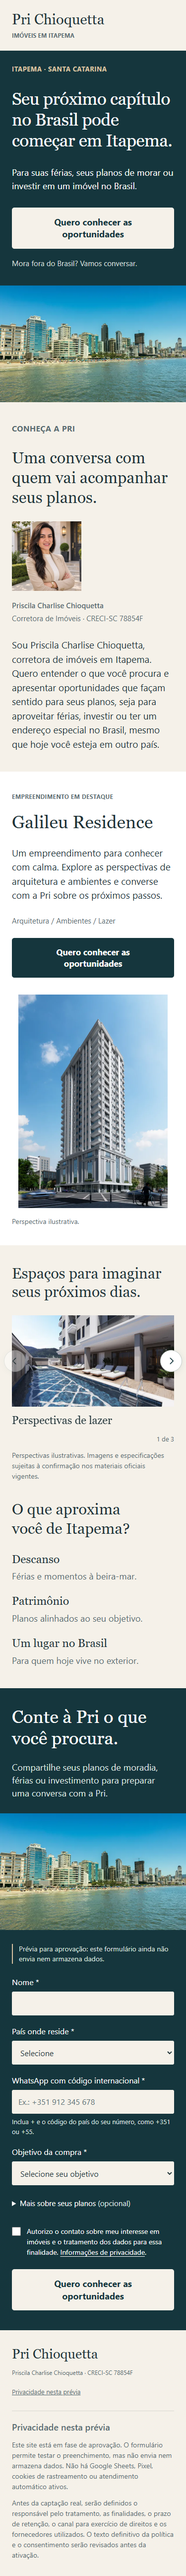
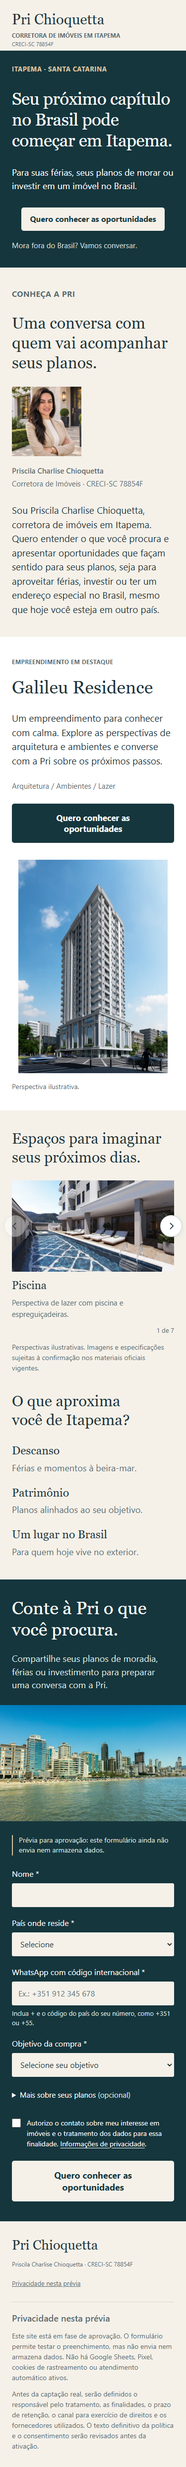
feat: configure seven-slide gallery and approved header and mobile refinements

diff --git a/config.js b/config.js
@@ -1,6 +1,6 @@
 // Edite o conteúdo aqui e execute `npm run build`. Sem dependências externas.
 export default {
-  brand: { name: 'Pri Chioquetta', subtitle: 'Imóveis em Itapema', tagline: 'Atendimento pessoal, onde você estiver.' },
+  brand: { name: 'Pri Chioquetta', subtitle: 'Corretora de Imóveis em Itapema', tagline: 'Atendimento pessoal, onde você estiver.' },
   seo: {
     title: 'Imóveis em Itapema | Pri Chioquetta',
     description: 'Conheça o Galileu Residence e converse com Priscila Charlise Chioquetta sobre férias, moradia e seus planos de ter um imóvel em Itapema, Santa Catarina.',
@@ -55,11 +55,16 @@ export default {
   gallery: {
     title: 'Espaços para imaginar seus próximos dias.',
     disclaimer: 'Perspectivas ilustrativas. Imagens e especificações sujeitas à confirmação nos materiais oficiais vigentes.',
-    // Manter apenas a seleção editorial já aprovada. Nenhum novo ambiente foi acrescentado.
+    // Adicione, remova ou reordene os objetos abaixo e execute npm run build.
+    // Os arquivos são os derivados reais já existentes no acervo otimizado.
     items: [
-      { caption: 'Perspectivas de lazer', image: { name: 'piscina-a-02', widths: [640, 1280, 1920], width: 5000, height: 2813, alt: 'Perspectiva ilustrativa de piscina e espreguiçadeiras.' } },
-      { caption: 'Ambientes para morar', image: { name: 'living-a-01', widths: [640, 1280, 1920], width: 5000, height: 2813, alt: 'Perspectiva ilustrativa de living com sofá e painel de televisão.' } },
-      { caption: 'Momentos de descanso', image: { name: 'sacada-02-a-01', widths: [640, 1280, 1920], width: 5000, height: 2813, alt: 'Perspectiva ilustrativa de sacada com mesa, cadeiras e paisagem urbana.' } }
+      { title: 'Piscina', caption: 'Perspectiva de lazer com piscina e espreguiçadeiras.', image: { name: 'piscina-a-02', widths: [640, 1280, 1920], width: 5000, height: 2813, alt: 'Perspectiva ilustrativa de piscina e espreguiçadeiras.' } },
+      { title: 'Living', caption: 'Perspectiva do ambiente de estar e sua decoração.', image: { name: 'living-a-01', widths: [640, 1280, 1920], width: 5000, height: 2813, alt: 'Perspectiva ilustrativa de living com sofá e painel de televisão.' } },
+      { title: 'Sacada', caption: 'Perspectiva da sacada com mesa e cadeiras.', image: { name: 'sacada-02-a-01', widths: [640, 1280, 1920], width: 5000, height: 2813, alt: 'Perspectiva ilustrativa de sacada com mesa, cadeiras e paisagem urbana.' } },
+      { title: 'Suíte', caption: 'Perspectiva do dormitório e sua ambientação.', image: { name: 'suite-a-01', widths: [640, 1280, 1920], width: 5000, height: 2813, alt: 'Perspectiva ilustrativa de suíte com cama e cabeceira.' } },
+      { title: 'Salão de festas', caption: 'Perspectiva do espaço de convivência e celebrações.', image: { name: 'salao-de-festas-a-02', widths: [640, 1280, 1920], width: 5000, height: 2813, alt: 'Perspectiva ilustrativa de salão de festas com mesas e área de apoio.' } },
+      { title: 'Sala de jogos', caption: 'Perspectiva do ambiente de jogos e convivência.', image: { name: 'sala-de-jogos-a-02', widths: [640, 1280, 1920], width: 5000, height: 2813, alt: 'Perspectiva ilustrativa de sala de jogos com mesa e poltronas.' } },
+      { title: 'Brinquedoteca', caption: 'Perspectiva do espaço infantil e seus elementos lúdicos.', image: { name: 'brinquedoteca-a-02', widths: [640, 1280, 1920], width: 5000, height: 2813, alt: 'Perspectiva ilustrativa de brinquedoteca com cabana e brinquedos.' } }
     ]
   },
   regionTitle: 'O que aproxima você de Itapema?',

diff --git a/styles/main.css b/styles/main.css
@@ -9,8 +9,20 @@
 @media(min-width:1101px){.hero-title-line{display:block}.hero-copy{padding-bottom:13px}}
 .sr-only{position:absolute;width:1px;height:1px;padding:0;margin:-1px;overflow:hidden;clip:rect(0,0,0,0);white-space:nowrap;border:0}
 .contact-panorama{display:none}
+.brand{position:relative}
+.brand-creci{display:block;position:absolute;top:100%;left:0;margin-top:2px;font-family:var(--body);font-size:11px;font-weight:400;line-height:1.3;color:var(--muted);white-space:nowrap}
+.gallery-card figcaption h3{font-size:24px;line-height:1.3}
+.gallery-card figcaption p{font-family:var(--body);font-size:16px;line-height:1.5;color:var(--muted);margin-top:8px}
+.carousel-arrow{top:0;margin-top:calc((100% - 24px)*60/410 - 22px)}
+@media(max-width:767px){
+  .gallery-card figcaption h3{font-size:22px}
+  .gallery-card figcaption p{font-size:15px}
+  .carousel-arrow{top:0;margin-top:calc(100%*107.5/382 - 22px)}
+}
 /* Foto dentro da seção de contato, imediatamente antes dos campos, só no mobile. */
 @media(max-width:767px){
   .contact-panorama{display:block;margin-inline:-24px}
   .contact-panorama img{width:100%;height:auto;aspect-ratio:1.6;object-fit:cover;object-position:var(--image-position,50% 55%)}
+  .hero-image{display:none}
+  .hero .button{align-self:center;width:fit-content;max-width:calc(100% - 16px);min-height:46px;padding:11px 16px;font-size:16px;line-height:1.4}
 }

diff --git a/templates/index.html b/templates/index.html
@@ -27,7 +27,7 @@
   <a class="skip-link" href="#conteudo">Ir para o conteúdo</a>
   <header class="site-header">
     <a class="brand" href="#inicio" aria-label="{{brandName}} — início">
-      <span class="brand-name">{{brandName}}</span><span class="brand-subtitle">{{brandSubtitle}}</span>
+      <span class="brand-name">{{brandName}}</span><span class="brand-subtitle">{{brandSubtitle}}</span><span class="brand-creci">{{brokerCreci}}</span>
     </a>
     <p class="header-note">{{brandTagline}}</p>
   </header>

diff --git a/tools/relatar-qa.py b/tools/relatar-qa.py
@@ -4,7 +4,7 @@ p=pathlib.Path(__file__).resolve().parents[1];r=json.loads((p/'validacao/resulta
 lines=['# Validação da primeira versão funcional','', '13/11/2026 · Microsoft Edge / Chromium headless, em Windows.','', '## Resultado','', '| Largura | Carrossel visível | Toque | Overflow da página | Subrecursos iniciais |','|---|---|---|---|---|']
 for v in r['viewports']:
  lines.append(f"| {v['width']} px | {v['carouselVisible']} imagem(ns) | {v['touch']} | Não | {v['initialResourceBytes']/1000:.1f} kB |")
-lines += ['', 'Os valores de recursos são `encodedBodySize` dos subrecursos observados na primeira tela, antes do percurso pela página; não incluem o HTML (16,5 kB), cabeçalhos ou efeitos de compressão em produção. Incluem possíveis antecipações de imagens lazy do navegador. Não são nota Lighthouse nem medição em rede móvel.', '', '## Verificações aprovadas', '', '- Seis larguras sem overflow horizontal da página, inclusive depois das interações.', '- Cabeçalho mobile restaurado ao estilo inicial; foto WebP dentro da seção de contato, entre a chamada e os campos. Tablet e desktop preservados.', '- Identificação completa, profissão e CRECI presentes; retrato profissional no lugar da captura de Instagram.', '- Três imagens da seleção anterior; duas por tela a partir de 768 px e uma abaixo desse limite.', '- Setas, estados inicial/final e navegação por teclado (esquerda/direita, Home/End).', '- Gesto nativo de deslize emulado por eventos de toque CDP nas três larguras mobile.', '- Todas as imagens da página decodificadas, sem recursos com erro HTTP ou erros JavaScript.', '- Validação de telefone internacional, campos obrigatórios e consentimento desmarcado. Campos de qualificação opcionais disponíveis em bloco expansível.', '- Mensagem de validação explicita que não houve envio ou armazenamento; zero requisições POST durante os testes.', '- Zero requisições externas, cookies, localStorage ou sessionStorage nesta versão.', '- Leitura das UTMs permitidas na página atual, sem persistência ou transmissão.', '- Um H1, title, description, metadados Open Graph, imagem OG 1200 × 630, idioma pt-BR, robots noindex e dimensões das imagens.', '- Conteúdo em HTML acessível sem JavaScript, com envio desabilitado.', '- Preferência por movimento reduzido respeitada.', '- Function reservada testada como módulo: GET 405, POST 503 e `ok: false`.', '', '## Capturas', '', 'Os arquivos em `validacao/pagina-LARGURA.png` são capturas completas do navegador, anteriores ao preenchimento de dados sintéticos. `hero-LARGURA.png` registra a primeira tela e `carrossel-LARGURA.png` registra a galeria. As seis versões foram revisadas visualmente, com atenção a recortes, legibilidade e alinhamento.', '', '## Limites e pendências', '']
+lines += ['', 'Os valores de recursos são `encodedBodySize` dos subrecursos observados na primeira tela, antes do percurso pela página; não incluem o HTML (16,5 kB), cabeçalhos ou efeitos de compressão em produção. Incluem possíveis antecipações de imagens lazy do navegador. Não são nota Lighthouse nem medição em rede móvel.', '', '## Verificações aprovadas', '', '- Seis larguras sem overflow horizontal da página, inclusive depois das interações.', '- Cabeçalho profissional com subtítulo e CRECI; Hero mobile preservado com CTA compacto e foto WebP apenas dentro da seção de contato, entre a chamada e os campos. Hero desktop preservado.', '- Identificação completa, profissão e CRECI presentes; retrato profissional no lugar da captura de Instagram.', '- Sete ambientes na ordem solicitada, com títulos e legendas; duas imagens por tela a partir de 768 px e uma abaixo desse limite.', '- Setas, estados inicial/final e navegação por teclado (esquerda/direita, Home/End).', '- Gesto nativo de deslize emulado por eventos de toque CDP nas três larguras mobile.', '- Todas as imagens da página decodificadas, sem recursos com erro HTTP ou erros JavaScript.', '- Validação de telefone internacional, campos obrigatórios e consentimento desmarcado. Campos de qualificação opcionais disponíveis em bloco expansível.', '- Mensagem de validação explicita que não houve envio ou armazenamento; zero requisições POST durante os testes.', '- Zero requisições externas, cookies, localStorage ou sessionStorage nesta versão.', '- Leitura das UTMs permitidas na página atual, sem persistência ou transmissão.', '- Um H1, title, description, metadados Open Graph, imagem OG 1200 × 630, idioma pt-BR, robots noindex e dimensões das imagens.', '- Conteúdo em HTML acessível sem JavaScript, com envio desabilitado.', '- Preferência por movimento reduzido respeitada.', '- Function reservada testada como módulo: GET 405, POST 503 e `ok: false`.', '', '## Capturas', '', 'Os arquivos em `validacao/pagina-LARGURA.png` são capturas completas do navegador, anteriores ao preenchimento de dados sintéticos. `hero-LARGURA.png` registra a primeira tela e `carrossel-LARGURA.png` registra a galeria. As seis versões foram revisadas visualmente, com atenção a recortes, legibilidade e alinhamento.', '', '## Limites e pendências', '']
 lines += ['- '+x for x in r['limitations']]
 lines += ['- A autorização comercial do retrato continua pendente; a exibição atual é de revisão local.', '- Associação dos ambientes e direitos de uso precisam de confirmação antes da versão pública.', '- Integração real, credenciais, banco, privacidade final, Cloudflare e domínio continuam pendentes.', '- Não foi feita auditoria WCAG completa; foram verificados rótulos, foco, teclado, textos alternativos e movimento reduzido.', '- Cabeçalhos de segurança do Pages foram conferidos no código; sua aplicação no Cloudflare deve ser validada na primeira prévia remota autorizada.', '', '## Reproduzir o QA', '', 'O site não depende de Playwright. Para repetir somente os testes de desenvolvimento, usar uma instalação de Playwright já disponível e indicar `PLAYWRIGHT_MODULE` e, se necessário, `BROWSER_EXECUTABLE`; executar `node tools/test-browser.mjs`. O teste inicia e encerra seu próprio servidor em 127.0.0.1:4177 e não publica nada.', '', 'O JSON detalhado da execução está em `validacao/resultados.json`.']
 (p/'docs/VALIDACAO.md').write_text('\n'.join(lines)+'\n',encoding='utf-8')

diff --git a/docs/ENTREGA.md b/docs/ENTREGA.md
@@ -8,19 +8,19 @@ Primeira landing page funcional criada na pasta `C:\Users\Usuario\Documents\A- C
 
 Abrir `dist/index.html` no navegador ou executar `node tools/serve.mjs` nessa pasta e acessar o endereço local impresso. Para editar os dados e reconstruir: `config.js` e `node tools/build.mjs`.
 
-A referência desktop foi preservada em cores, tipografia, hero dividido, título com quebras editoriais, apresentação pessoal, fachada vertical e encerramento com formulário. O cabeçalho mobile foi restaurado ao estilo inicial a pedido do usuário. Uma foto adicional de Itapema aparece dentro da seção de contato, entre a chamada e os campos, apenas no mobile. A captura provisória de Instagram foi substituída pelo retrato profissional disponível para revisão, com nome completo, profissão e CRECI informados pelo usuário.
+A referência desktop foi preservada em cores, tipografia, hero dividido, título com quebras editoriais, apresentação pessoal, fachada vertical e encerramento com formulário. O cabeçalho mobile foi restaurado ao estilo inicial a pedido do usuário. A foto de Itapema aparece dentro da seção de contato, entre a chamada e os campos, apenas no mobile; não se repete sob o Hero nesse tamanho. O CTA do Hero mobile está compacto e centralizado. A captura provisória de Instagram foi substituída pelo retrato profissional disponível para revisão, com nome completo, profissão e CRECI informados pelo usuário.
 
 ## Arquivos criados e alterados
 
 Não havia código anterior. Todos os arquivos de implementação são novos; nenhum original de mídia foi modificado. Foram preservados os 21 arquivos que estavam na raiz da pasta na hora da instalação, com mesmo tamanho e data de modificação.
 
-Arquivos centrais: `config.js`, `templates/index.html`, `styles/main.css`, `scripts/main.js`, `functions/api/leads.js`, `tools/build.mjs`, `tools/serve.mjs`, `package.json`, `_headers`, `.gitignore`, `.dev.vars.example`, `.github/pull_request_template.md`, `README.md`, documentos e evidências em `docs`/`validacao`. Foram acrescentados 35 arquivos de imagem otimizados e um favicon dentro de `assets`.
+Arquivos centrais: `config.js`, `templates/index.html`, `styles/main.css`, `scripts/main.js`, `functions/api/leads.js`, `tools/build.mjs`, `tools/serve.mjs`, `package.json`, `_headers`, `.gitignore`, `.dev.vars.example`, `.github/pull_request_template.md`, `README.md`, documentos e evidências em `docs`/`validacao`. Foram acrescentados 59 arquivos de imagem otimizados e um favicon dentro de `assets`.
 
 O build gera `dist/index.html`, CSS, JS, assets, robots, sitemap e rotas da Function. A saída pública não contém MP4, mídia original, documentação de trabalho ou configuração privada.
 
 ## Comportamento entregue
 
-- Carrossel com três imagens, duas visíveis a partir de 768 px e uma no mobile, sem autoplay; setas laterais, limites, movimento suave, teclado e toque nativo. Legendas e aviso de perspectivas ilustrativas preservados.
+- Carrossel com sete imagens, duas visíveis a partir de 768 px e uma no mobile, sem autoplay; setas laterais, limites, movimento suave, teclado e toque nativo. Legendas e aviso de perspectivas ilustrativas preservados.
 - CTA consistente: “Quero conhecer as oportunidades”.
 - Formulário com quatro dados principais, consentimento desmarcado e qualificação opcional expansível. Nenhuma faixa de preço inventada.
 - Nenhuma integração ativa, falso recibo de lead, Pixel, cookie, POST ou armazenamento no navegador. A validação é local e explicitamente identificada como prévia.

diff --git a/docs/AJUSTES-APROVACAO.md b/docs/AJUSTES-APROVACAO.md
@@ -1,0 +1,37 @@
+# Ajustes para aprovação — cabeçalho, carrossel e mobile
+
+13/11/2026. Sem push, PR, deploy ou alteração de integrações.
+
+## Cabeçalho profissional
+
+Nome “Pri Chioquetta” preservado em tipografia editorial. Subtítulo atualizado para “CORRETORA DE IMÓVEIS EM ITAPEMA” e linha discreta “CRECI-SC 78854F” abaixo. O CRECI vem dos dados profissionais centralizados em `config.js`. Esse ajuste não muda as dimensões do cabeçalho nem o conteúdo do Hero.
+
+## Carrossel
+
+Ordem em `gallery.items` no `config.js`:
+
+1. Piscina — `piscina-a-02`.
+2. Living — `living-a-01`.
+3. Sacada — `sacada-02-a-01`.
+4. Suíte — `suite-a-01`.
+5. Salão de festas — `salao-de-festas-a-02`.
+6. Sala de jogos — `sala-de-jogos-a-02`.
+7. Brinquedoteca — `brinquedoteca-a-02`.
+
+Cada objeto possui `title`, `caption` e `image` com basename real, dimensões, larguras disponíveis e alt. Para adicionar, remover ou trocar ambientes, editar somente essa lista e executar `node tools/build.mjs`. Não é necessário editar HTML ou JavaScript de interação. Manter arquivos referenciados em `assets/images`; o build valida se existem.
+
+As três primeiras imagens já estavam em assets. As quatro restantes foram copiadas byte a byte dos arquivos WebP/JPG já existentes em `analise-pri/imagens-web`, sem gerar imagens novas ou substituir originais. Seus nomes foram preservados. O material de festas se chama originalmente “Salão de Festas - A - 02.jpeg”, correspondendo ao pedido de “Sala de Festas”.
+
+Mantidos: duas imagens no desktop, uma no mobile, toque nativo, setas com limites, teclado, movimento suave, preferência por movimento reduzido, indicador e aviso de perspectivas ilustrativas. O JavaScript de interação permanece o mesmo; a quantidade vem do HTML gerado pela configuração. A fotografia de Itapema continua separada desta lista.
+
+## Ajuste mobile solicitado durante esta revisão
+
+Texto, cores, fontes e apresentação do Hero preservados. Apenas o CTA do Hero recebe largura pelo conteúdo, centralização e altura mínima de 46 px. Em telas muito estreitas, a legenda pode ocupar duas linhas para manter legibilidade e área de toque. O texto continua “Quero conhecer as oportunidades”.
+
+A panorâmica não aparece mais sob o Hero no mobile. Ela aparece dentro da seção de contato, entre a chamada e os campos, em boa largura e com enquadramento de praia e edifícios. O desktop mantém sua panorâmica original no Hero e não mostra essa repetição na seção de contato. O formulário e sua lógica de prévia não foram alterados.
+
+## Evidências
+
+`validacao/hero-LARGURA.png`, `validacao/carrossel-LARGURA.png` e `validacao/pagina-LARGURA.png` contêm as capturas nas larguras 320, 375, 430, 768, 1280 e 1440. `resultados.json` registra os testes de setas, limites, títulos na ordem configurada, toque emulado, imagem antes dos campos e ausência de overflow.
+
+`quantidades-galeria.json` registra o teste de configuração com 1, 2 e 7 imagens em mobile e desktop. O toque foi emulado em Chromium; não representa teste em aparelho físico.

diff --git a/docs/VALIDACAO.md b/docs/VALIDACAO.md
@@ -6,21 +6,21 @@
 
 | Largura | Carrossel visível | Toque | Overflow da página | Subrecursos iniciais |
 |---|---|---|---|---|
-| 320 px | 1 imagem(ns) | aprovado (CDP) | Não | 161.8 kB |
-| 375 px | 1 imagem(ns) | aprovado (CDP) | Não | 161.8 kB |
-| 430 px | 1 imagem(ns) | aprovado (CDP) | Não | 161.8 kB |
-| 768 px | 2 imagem(ns) | não aplicável | Não | 281.9 kB |
-| 1280 px | 2 imagem(ns) | não aplicável | Não | 281.9 kB |
-| 1440 px | 2 imagem(ns) | não aplicável | Não | 454.1 kB |
+| 320 px | 1 imagem(ns) | aprovado (CDP) | Não | 162.6 kB |
+| 375 px | 1 imagem(ns) | aprovado (CDP) | Não | 162.6 kB |
+| 430 px | 1 imagem(ns) | aprovado (CDP) | Não | 162.6 kB |
+| 768 px | 2 imagem(ns) | não aplicável | Não | 282.7 kB |
+| 1280 px | 2 imagem(ns) | não aplicável | Não | 282.7 kB |
+| 1440 px | 2 imagem(ns) | não aplicável | Não | 454.9 kB |
 
 Os valores de recursos são `encodedBodySize` dos subrecursos observados na primeira tela, antes do percurso pela página; não incluem o HTML (16,5 kB), cabeçalhos ou efeitos de compressão em produção. Incluem possíveis antecipações de imagens lazy do navegador. Não são nota Lighthouse nem medição em rede móvel.
 
 ## Verificações aprovadas
 
 - Seis larguras sem overflow horizontal da página, inclusive depois das interações.
-- Cabeçalho mobile restaurado ao estilo inicial; foto WebP dentro da seção de contato, entre a chamada e os campos. Tablet e desktop preservados.
+- Cabeçalho profissional com subtítulo e CRECI; Hero mobile preservado com CTA compacto e foto WebP apenas dentro da seção de contato, entre a chamada e os campos. Hero desktop preservado.
 - Identificação completa, profissão e CRECI presentes; retrato profissional no lugar da captura de Instagram.
-- Três imagens da seleção anterior; duas por tela a partir de 768 px e uma abaixo desse limite.
+- Sete ambientes na ordem solicitada, com títulos e legendas; duas imagens por tela a partir de 768 px e uma abaixo desse limite.
 - Setas, estados inicial/final e navegação por teclado (esquerda/direita, Home/End).
 - Gesto nativo de deslize emulado por eventos de toque CDP nas três larguras mobile.
 - Todas as imagens da página decodificadas, sem recursos com erro HTTP ou erros JavaScript.

diff --git a/README.md b/README.md
@@ -15,6 +15,8 @@ Abrir `http://127.0.0.1:4173`. Encerrar com Ctrl+C. Os equivalentes `npm run bui
 
 O arquivo pronto é `dist/index.html`; também pode ser aberto diretamente no navegador para revisão básica. O servidor local é recomendado para reproduzir a navegação. A pasta `dist` contém apenas os arquivos públicos gerados, sem os materiais originais da raiz e sem os documentos internos.
 
+A revisão atual inclui cabeçalho profissional, sete ambientes configuráveis e o ajuste do CTA/panorâmica no mobile. Veja `docs/AJUSTES-APROVACAO.md`.
+
 ## Estrutura
 
 ```text
